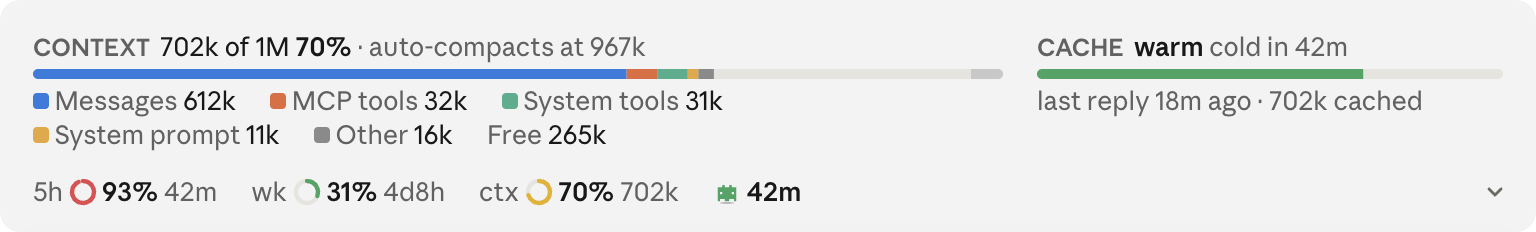
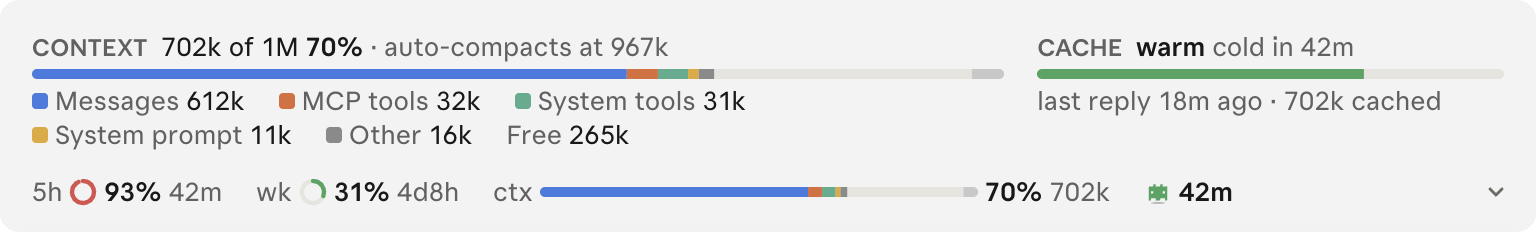
Row: context as a category bar while there is room, a ring below 56 columns; retake README images

diff --git a/hooks/register.tsx b/hooks/register.tsx
@@ -4,7 +4,7 @@ import type { EngineInterface, Register, SessionContextUsage, SessionRateLimit, 
 import type { Breakdown, Cache, Context, Fold, Limit } from '../types'
 import { BAR_H, bar, chevron, ring, robotCold, robotWarm, swatch } from './art.ts'
 import { ringOf, termKey, textOf, warmthShade } from './colour.ts'
-import { CACHE_TTL, ease, figuresOf, pct, timeLeft, tok, warmthOf } from './format.ts'
+import { CACHE_TTL, contextParts, ease, figuresOf, pct, timeLeft, tok, warmthOf } from './format.ts'
 
 // A band above the prompt: rings for the 5-hour limit, the weekly limit and
 // context, then a robot for the prompt cache. The chevron grows a card up out
@@ -18,6 +18,15 @@ const OPEN_MS = 240
 const FRAME_MS = 16
 // The card's split: context takes two thirds, cache the rest.
 const CONTEXT_WIDTH = '66%'
+// The row's context is a bar while the band has room for it, a ring otherwise.
+// Widths are in cells; the band reports its own (bodyColumns). From BAR_COLUMNS
+// up, the row stays on one line and the bar shrinks from BAR_MAX to fit; below
+// it, the bar becomes a ring and the row wraps as it needs. BAR_COLUMNS is where
+// the bar is as short as it should get (tuned with Chris in the app, 2026-11-10).
+// BAR_MIN only keeps the bar from vanishing when the figures run long.
+const BAR_COLUMNS = 56
+const BAR_MIN = 2
+const BAR_MAX = 26
 
 const limits = atom({ plugin: 'usage-band', key: 'limits' } as const, [] as Limit[])
 const context = atom({ plugin: 'usage-band', key: 'context' } as const, null as Context | null)
@@ -117,6 +126,7 @@ export const register: Register = on => {
     const u = await $.session.usage()
     await update($, limits, () => keepLimits(u.rateLimits))
     await update($, context, () => keepContext(u.context))
+    void measureBreakdown($)
     // Redraw each minute so times left and the cache's warmth stay current.
     $.clock.every(60_000, () => $.ui.invalidate('ui.render'))
 
@@ -143,7 +153,7 @@ export const register: Register = on => {
     if (e.changed.includes('rateLimits')) await update($, limits, () => keepLimits(e.rateLimits))
     if (e.changed.includes('context')) {
       await update($, context, () => keepContext(e.context))
-      if ((await read($, fold)).open) void measureBreakdown($)
+      void measureBreakdown($)
     }
 
     return next(e)
@@ -210,20 +220,35 @@ export const register: Register = on => {
 
     const { Svg } = ui
     const f = await read($, fold)
+    const b = demo ? DEMO.breakdown : await read($, breakdown)
+    const window = ctx?.window ?? 0
+    const parts = contextParts(b, window, (ctx?.percent ?? 0) / 100)
+    // The bar when the band has room for it beside everything else, else a ring.
+    const wide = !!ctx && e.props.bodyColumns >= BAR_COLUMNS
+    // In bar mode the row stays on one line and only the bar gives way as the band narrows. Boxes
+    // never shrink below their content unless given minWidth 0, so only the row and the context
+    // figure take it. Everything else, the gaps (a parent's gap, which never shrinks, rather than
+    // margins) and the chevron hold their size; the bar stops at BAR_MIN.
 
     const row = (
       <Box key="row" flexDirection="row" alignItems="center" paddingLeft={1}>
-        <Box flexGrow={1} flexDirection="row" flexWrap="wrap" alignItems="center">
+        <Box flexGrow={1} flexShrink={1} minWidth={0} flexDirection="row" flexWrap={wide ? 'nowrap' : 'wrap'} alignItems="center" columnGap={2}>
           {figs.map(g => (
-            <Box key={g.label} flexDirection="row" alignItems="center" marginRight={2}>
+            <Box key={g.label} flexDirection="row" alignItems="center" {...(wide && g.label === 'ctx' ? { flexShrink: 1, minWidth: 0 } : { flexShrink: 0 })}>
               <Text size="footnote" color="inactive">{g.label} </Text>
-              <Svg source={ring(g.percent ?? 0, ringOf(g.percent ?? 0))} alt={`${g.name} ${pct(g.percent)} used`} width={14} height={14} />
+              {wide && g.label === 'ctx' ? (
+                <Box width={BAR_MAX} minWidth={BAR_MIN} flexShrink={1} flexDirection="column">
+                  <Svg source={bar(parts)} alt={`${g.name} ${pct(g.percent)} used, by category`} height={BAR_H} />
+                </Box>
+              ) : (
+                <Svg source={ring(g.percent ?? 0, ringOf(g.percent ?? 0))} alt={`${g.name} ${pct(g.percent)} used`} width={14} height={14} />
+              )}
               <Text size="footnote" weight="semibold" color={textOf(ringOf(g.percent ?? 0))}> {pct(g.percent)}</Text>
               {g.extra ? <Text size="footnote" color="inactive"> {g.extra}</Text> : null}
             </Box>
           ))}
           {w ? (
-            <Box key="cache" flexDirection="row" alignItems="center">
+            <Box key="cache" flexDirection="row" alignItems="center" flexShrink={0}>
               <Svg
                 source={w.warmth === 'cold' ? robotCold() : robotWarm(w.warmth)}
                 alt={w.warmth === 'cold' ? 'Prompt cache cold' : `Prompt cache warm, ${w.mins} minutes left`}
@@ -236,7 +261,7 @@ export const register: Register = on => {
           ) : null}
         </Box>
         {/* A Button cannot hold a drawing, so a blank Button lies over the chevron and takes the press. */}
-        <Box position="relative" width={3} height={1} alignItems="center" justifyContent="center">
+        <Box position="relative" width={3} height={1} flexShrink={0} alignItems="center" justifyContent="center">
           <Svg source={chevron(!f.open)} alt={f.open ? 'Hide details' : 'Show details'} width={10} height={10} />
           <Box position="absolute" top={0} left={0} right={0} bottom={0} alignItems="center" justifyContent="center">
             <Button key={FOLD_KEY} plain label="   " onPress={() => void toggle($)} />
@@ -247,14 +272,8 @@ export const register: Register = on => {
 
     if (f.t <= 0) return row
 
-    const b = demo ? DEMO.breakdown : await read($, breakdown)
-    const window = ctx?.window ?? 0
     const ctxFig = figs[figs.length - 1]
     const ago = c ? (now - c.lastAt < 60_000 ? 'just now' : `${timeLeft(now, c.lastAt)} ago`) : ''
-    // Used categories from the left, the auto-compact buffer at the right end, as /context draws it.
-    const used = (b?.rows ?? []).map(r => ({ share: window > 0 ? r.tokens / window : 0, slot: r.color }))
-    const buffer = b?.compactAt && window > 0 ? Math.max(0, window - b.compactAt) / window : 0
-    const parts = [...used, { share: Math.max(0, 1 - buffer - used.reduce((n, u) => n + u.share, 0)), slot: 'track' }, { share: buffer, slot: 'buf' }]
     const left = w && c ? Math.max(0, (c.lastAt + c.ttlMs - now) / c.ttlMs) : 0
 
     const body = (

diff --git a/hooks/band.test.tsx b/hooks/band.test.tsx
@@ -1,7 +1,7 @@
 import type { On, SessionRateLimit } from 'claude-code'
 import { describe, expect, mock, test } from 'claude-code/testing'
 import { contrast, ringOf, textOf } from './colour.ts'
-import { ease, figuresOf, timeLeft, tok, warmthOf } from './format.ts'
+import { contextParts, ease, figuresOf, timeLeft, tok, warmthOf } from './format.ts'
 
 const MIN = 60_000
 const HOUR = 60 * MIN
@@ -65,6 +65,23 @@ describe('format', () => {
     ])
   })
 
+  test('context parts: used categories, the free track, the auto-compact buffer at the right end', () => {
+    const b = {
+      rows: [
+        { name: 'Messages', tokens: 612_000, color: 'msg' },
+        { name: 'MCP tools', tokens: 32_000, color: 'mcp' },
+      ],
+      free: 265_000,
+      compactAt: 967_000,
+    }
+    const parts = contextParts(b, 1e6)
+    expect(parts.map(p => p.slot)).toEqual(['msg', 'mcp', 'track', 'buf'])
+    expect(parts.map(p => Math.round(p.share * 1000))).toEqual([612, 32, 323, 33])
+    expect(Math.abs(parts.reduce((n, p) => n + p.share, 0) - 1)).toBeLessThan(1e-9)
+    // Before the breakdown is measured, the used share stands in as one part.
+    expect(contextParts(null, 1e6, 0.26)).toEqual([{ share: 0.26, slot: 'msg' }])
+  })
+
   test('ease starts and ends at rest', () => {
     expect(ease(0)).toBe(0)
     expect(ease(1)).toBe(1)
@@ -118,6 +135,10 @@ const engine = (on: On) => {
   return clock
 }
 
+// The alt text of every drawing in a mounted band.
+const alts = async (ui: { findAll: (q: { type: string }) => Promise<{ props: Record<string, unknown> }[]> }) =>
+  (await ui.findAll({ type: 'Svg' })).map(n => n.props.alt)
+
 describe('band', () => {
   test('desktop: rings for 5h, weekly and context, then the cache robot', async ($, on) => {
     engine(on)
@@ -136,6 +157,24 @@ describe('band', () => {
     await ui.unmount()
   })
 
+  test('context is a bar while the band has room, a ring when it is narrow', async ($, on) => {
+    engine(on)
+    await $.session.start({ cwd: '/', surface: 'desktop', isInteractive: true })
+
+    const wide = await $.ui.mount({ ...BAND, surface: 'desktop' })
+    await wide.drawn()
+    expect(await alts(wide)).toContain('Context 26% used, by category')
+    expect((await wide.find({ type: 'Text', text: /26%/ }))?.text).toBe(' 26%')
+    expect((await wide.find({ type: 'Text', text: /264k/ }))?.text).toBe(' 264k')
+    await wide.unmount()
+
+    const narrow = await $.ui.mount({ ...BAND, props: { ...BAND.props, bodyColumns: 40 }, surface: 'desktop' })
+    await narrow.drawn()
+    expect(await alts(narrow)).toContain('Context 26% used')
+    expect(await alts(narrow)).not.toContain('Context 26% used, by category')
+    await narrow.unmount()
+  })
+
   test('with anim on, the chevron grows the card over a quarter second, then shrinks it back', async ($, on) => {
     const clock = engine(on)
     await $.session.start({ cwd: '/', surface: 'desktop', isInteractive: true })
@@ -152,7 +191,7 @@ describe('band', () => {
     expect((await ui.find({ type: 'Text', text: /auto-compacts/ }))?.text).toBe(' · auto-compacts at 967k')
     expect((await ui.find({ type: 'Text', text: /Messages/ }))?.text).toBe(' Messages ')
     expect(await ui.find({ type: 'Button' })).toBeDefined()
-    // Three rings, the chevron, the context bar, five legend swatches (no cache yet).
+    // Two rings, the row's context bar, the chevron, the card's context bar, five legend swatches (no cache yet).
     expect((await ui.findAll({ type: 'Svg' })).length).toBe(10)
 
     await ui.press({ key: 'usage-band-fold' })

diff --git a/hooks/format.ts b/hooks/format.ts
@@ -1,4 +1,4 @@
-import type { Cache, Context, Limit } from '../types'
+import type { Breakdown, Cache, Context, Limit } from '../types'
 
 const MIN = 60_000
 const HOUR = 60 * MIN
@@ -60,6 +60,20 @@ export const warmthOf = (cache: Cache | null, now: number): { warmth: Warmth; mi
 }
 
 export const CACHE_TTL = HOUR
+
+/**
+ * The context bar's parts, left to right: the used categories, the free track,
+ * then the auto-compact buffer at the right end, as /context draws it. Shares are
+ * of the whole window. Before the breakdown is measured, `fallback` (the used
+ * share) stands in for it as one part.
+ */
+export const contextParts = (b: Breakdown | null, window: number, fallback = 0) => {
+  if (!b || window <= 0) return [{ share: Math.min(Math.max(fallback, 0), 1), slot: 'msg' }]
+  const used = b.rows.map(r => ({ share: r.tokens / window, slot: r.color }))
+  const buffer = b.compactAt ? Math.max(0, window - b.compactAt) / window : 0
+
+  return [...used, { share: Math.max(0, 1 - buffer - used.reduce((n, u) => n + u.share, 0)), slot: 'track' }, { share: buffer, slot: 'buf' }]
+}
 
 /** Smooth in and out, so the card eases at both ends of its travel. */
 export const ease = (t: number) => (t < 0.5 ? 4 * t ** 3 : 1 - (-2 * t + 2) ** 3 / 2)

diff --git a/DESIGN.md b/DESIGN.md
@@ -4,14 +4,15 @@ Why the band looks and behaves as it does, and what the Claude Code desktop app 
 
 ## Row
 
-`5h ◔ 63% 1h30m · wk ◕ 84% 2d4h · ctx ◔ 26% 264k · 🤖 42m  ⌃`
+`5h ◔ 63% 1h30m · wk ◕ 84% 2d4h · ctx ▬▬── 26% 264k · 🤖 42m  ⌃`
 
 - Rings (14 px drawings), a bold percent, then the time left (always) or the context tokens, faint.
+- Context is a small copy of the card's bar while the band is at least 56 cells wide (`bodyColumns`), so it reads apart from the two limits at a glance. The row then stays on one line and only the bar gives way as the window narrows, from 26 cells down; below 56 it becomes a ring like the others and the row wraps. The spacing is the row's `columnGap`, not margins (the app squeezes margins), and only the bar and its row take `minWidth={0}`, since a box never shrinks below its content without it.
 - Order: 5-hour, weekly, context, cache. Context is measured against the full window; the auto-compact point is in the card.
 - Colour (`hooks/colour.ts`): green to 60%, then a smooth OKLCH blend through yellow (70), amber (80) and orange (85) to red at 90%. Light-mode rings are bright (the app's own `#F2A503` and `#F47230` among them); dark mode uses softer shades of the same hues.
 - Cache: a bobbing, blinking robot, green while warm, orange in the last 10 minutes, red in the last 5, then a still blue robot with a turning snowflake. The cache is assumed to live an hour from the last main-thread request.
 - Times: `4h53m`, `53m`, `4d2h`.
-- Narrow windows: whole figures wrap to a second line; the chevron stays right.
+- Narrow windows: once context is a ring, whole figures wrap to a second line; the chevron stays right.
 - Terminal: the same facts as one line of text.
 
 ## Card

diff --git a/README.md b/README.md
@@ -2,10 +2,10 @@
 
 A slim band above the prompt in the Claude Code desktop app: your 5-hour and weekly limits, context and prompt cache at a glance.
 
-<img alt="The band in light mode: 5-hour, weekly and context rings with time left, and the cache robot" src="docs/row-light.png">
+<img alt="The band in light mode: 5-hour and weekly rings with time left, the context bar, and the cache robot" src="docs/row-light.png">
 <img alt="The band in dark mode" src="docs/row-dark.png">
 
-Each ring fills from green to red as it's used, with the time until it resets beside it. The robot is the prompt cache: green while warm, orange and red as it runs out, blue once cold. The chevron opens the context breakdown.
+Each ring fills from green to red as it's used, with the time until it resets beside it. Context is a bar split by category, like the one in the opened card, and turns into a ring when the window gets narrow. The robot is the prompt cache: green while warm, orange and red as it runs out, blue once cold. The chevron opens the context breakdown.
 
 <img alt="The band opened in light mode: context by category and the cache's time left" src="docs/band-light.png">
 <img alt="The band opened in dark mode" src="docs/band-dark.png">
